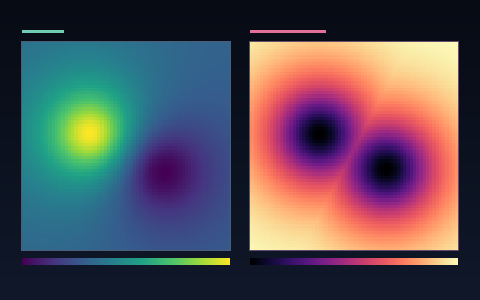
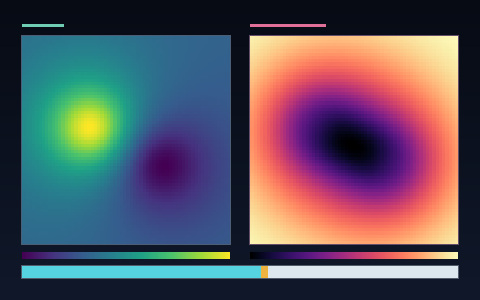
feat(viz): add PBox decision frontier
LLM-offload-review: xai/grok-4.3 PASS; deepseek/gemini unavailable

Changed region(s): [[0.0312, 0.06, 0.9688, 0.93], [0.125, 0.3, 0.25, 0.42], [0.125, 0.45, 0.25, 0.54]]

diff --git a/.claude/llm_offload_log.md b/.claude/llm_offload_log.md
@@ -3538,3 +3538,4 @@ tracked as issues #862/#864/#865/#890/#901/#913 and audit docs under docs/audit/
 - Raw review directory: `/tmp/llm-offload-iC9mEV/`.
 
 | 2026-07-15 | xai/grok-4.3; deepseek/gemini attempted | external artifact + code review | field_canvas.sio; epistemic_field_atelier.sio; viz_epistemic_field_receipt.sio | PASS_SINGLE_PROVIDER_DEGRADED | xAI accepted dual-channel value/standard-uncertainty separation, independent scales, deterministic pixel proof, synthetic-data claim boundary, and external wording. DeepSeek failed for insufficient balance and Gemini failed with OpenRouter HTTP 402. Raw: `/tmp/llm-offload-Fsip12/`. |
+| 2026-07-15 | xai/grok-4.3; deepseek/gemini attempted | math-review + external artifact review | field_canvas.sio; epistemic_field_atelier.sio; viz_epistemic_field_receipt.sio | PASS_SINGLE_PROVIDER_DEGRADED | xAI accepted first-order independent-source variance propagation, PBox mean-band threshold classification, three-witness receipt, decision-strip semantics, and the explicit non-clinical/non-ISO-GUM/non-95%-CI boundary. DeepSeek and Gemini provider calls failed; no fallback claim was made. Raw: `/tmp/llm-offload-gk8zDJ/`, `/tmp/llm-offload-TZ9iIy/`. |
